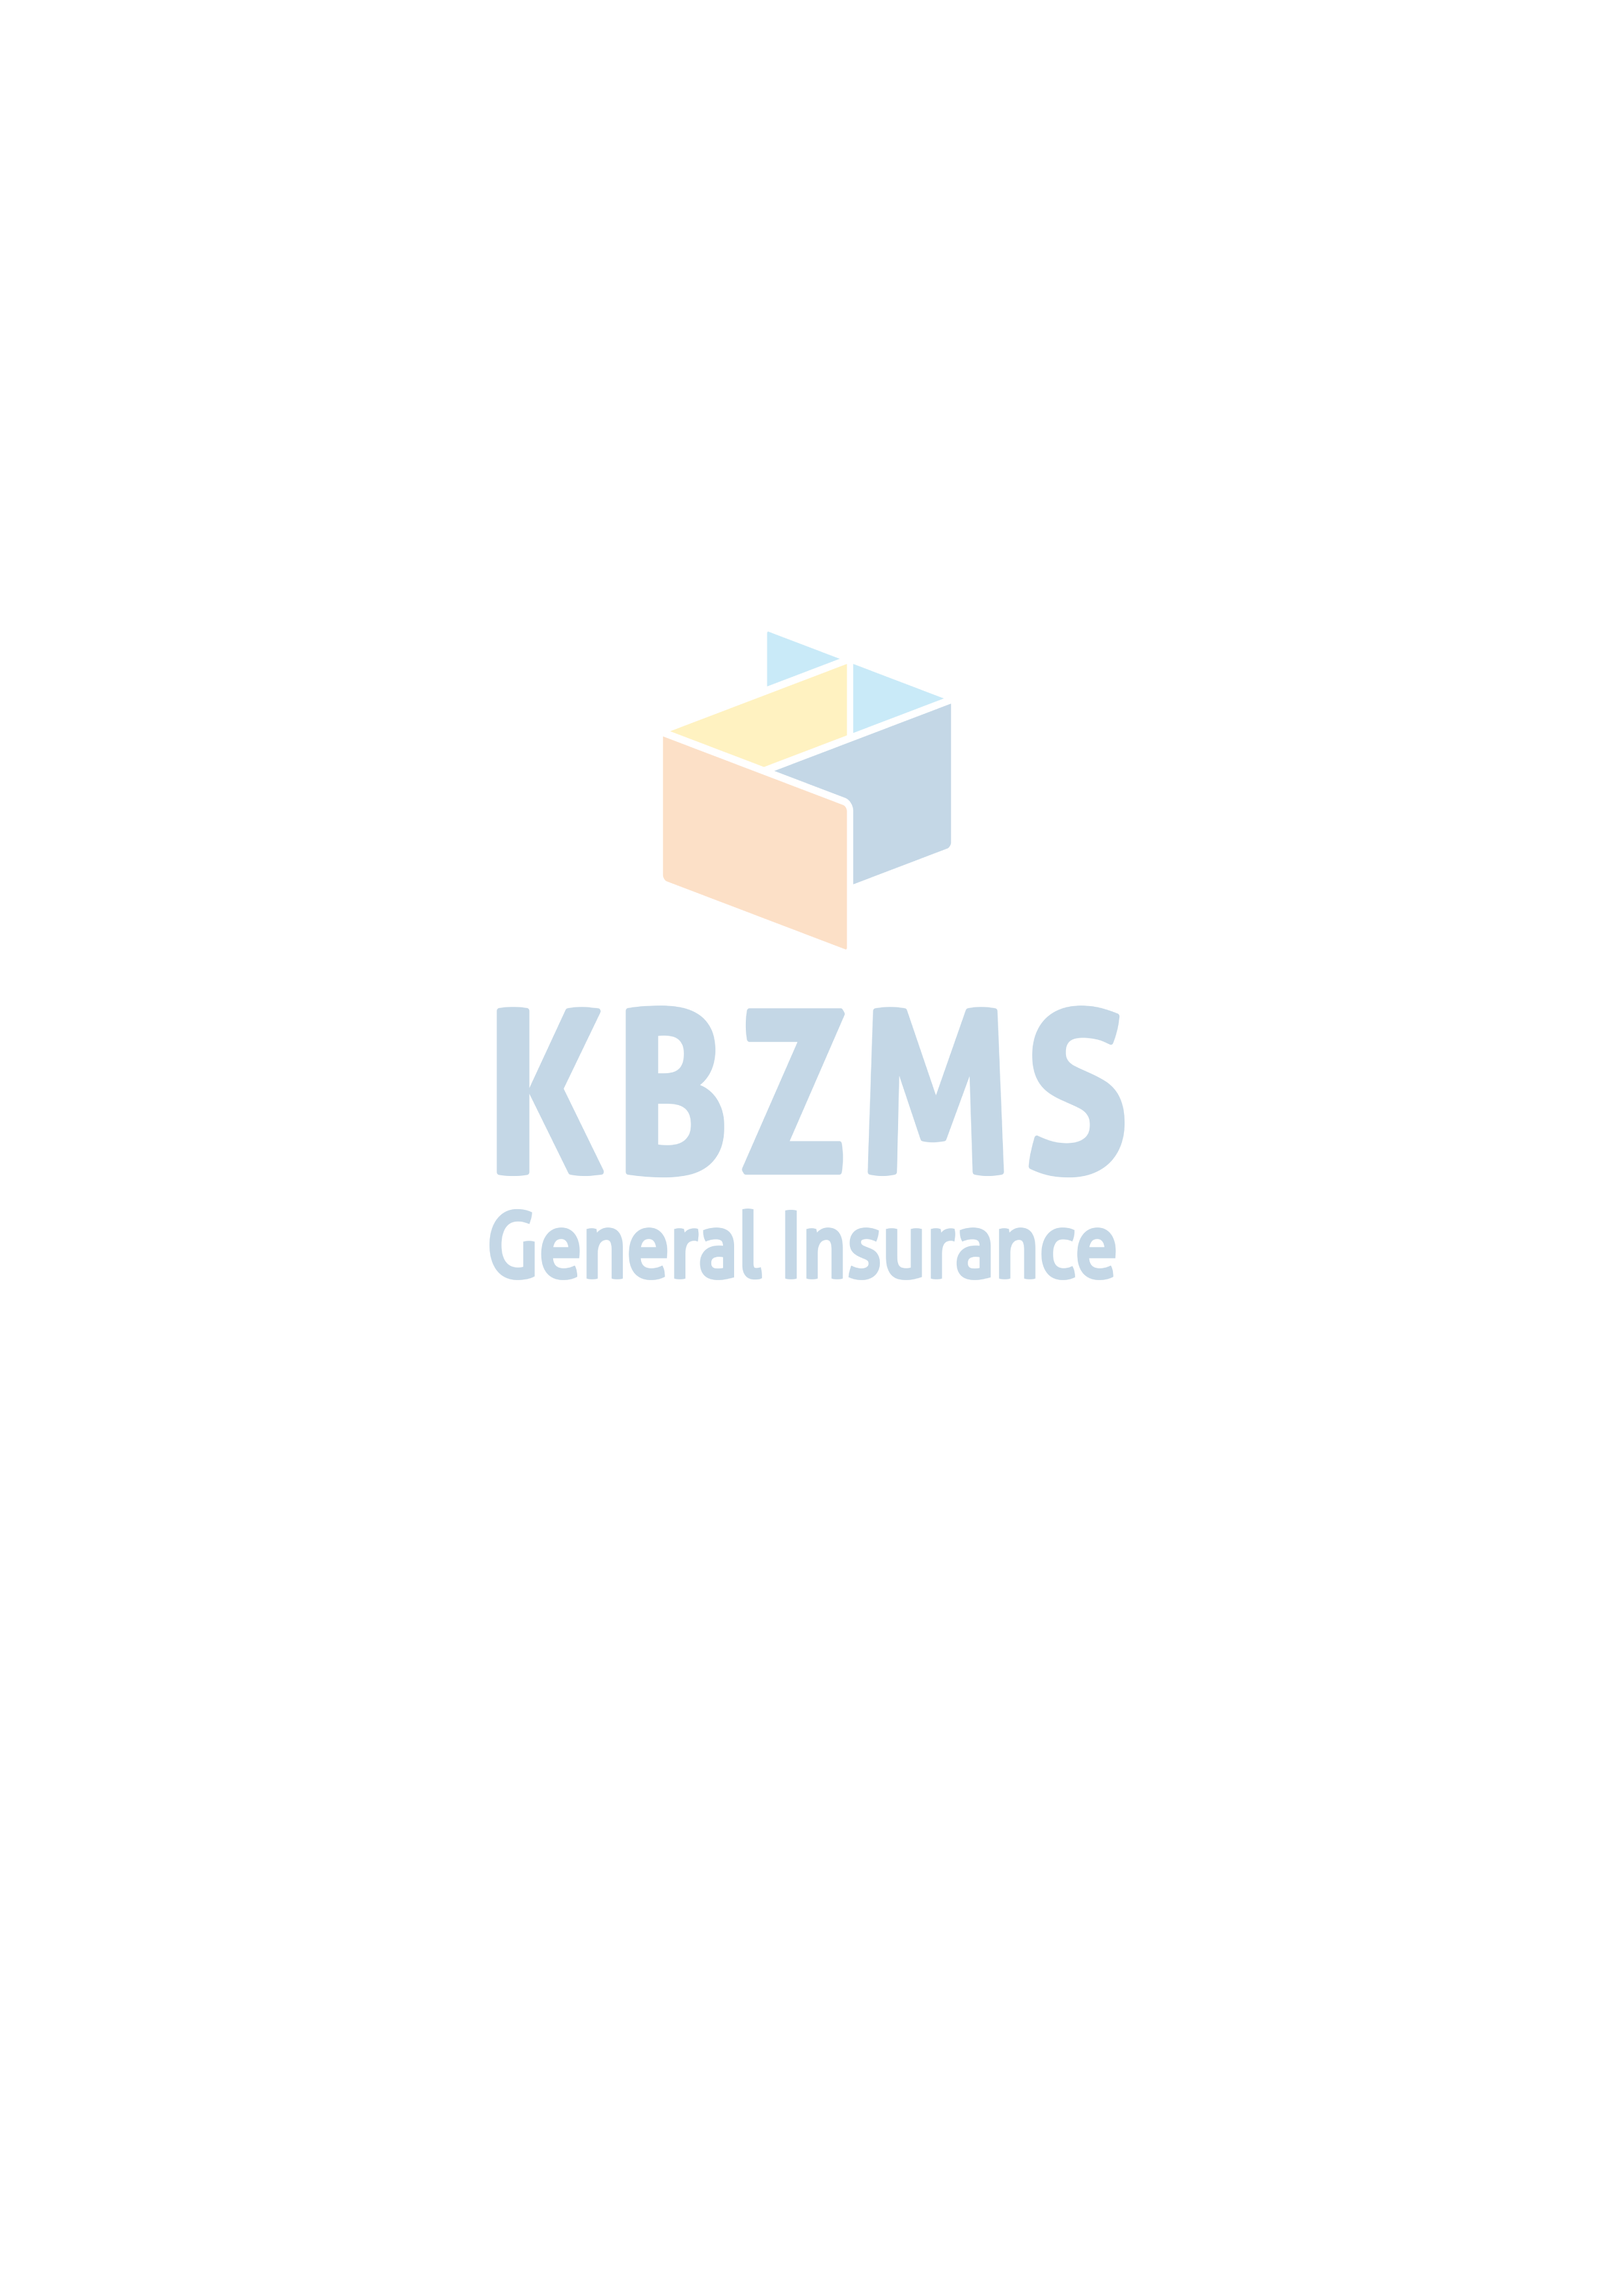
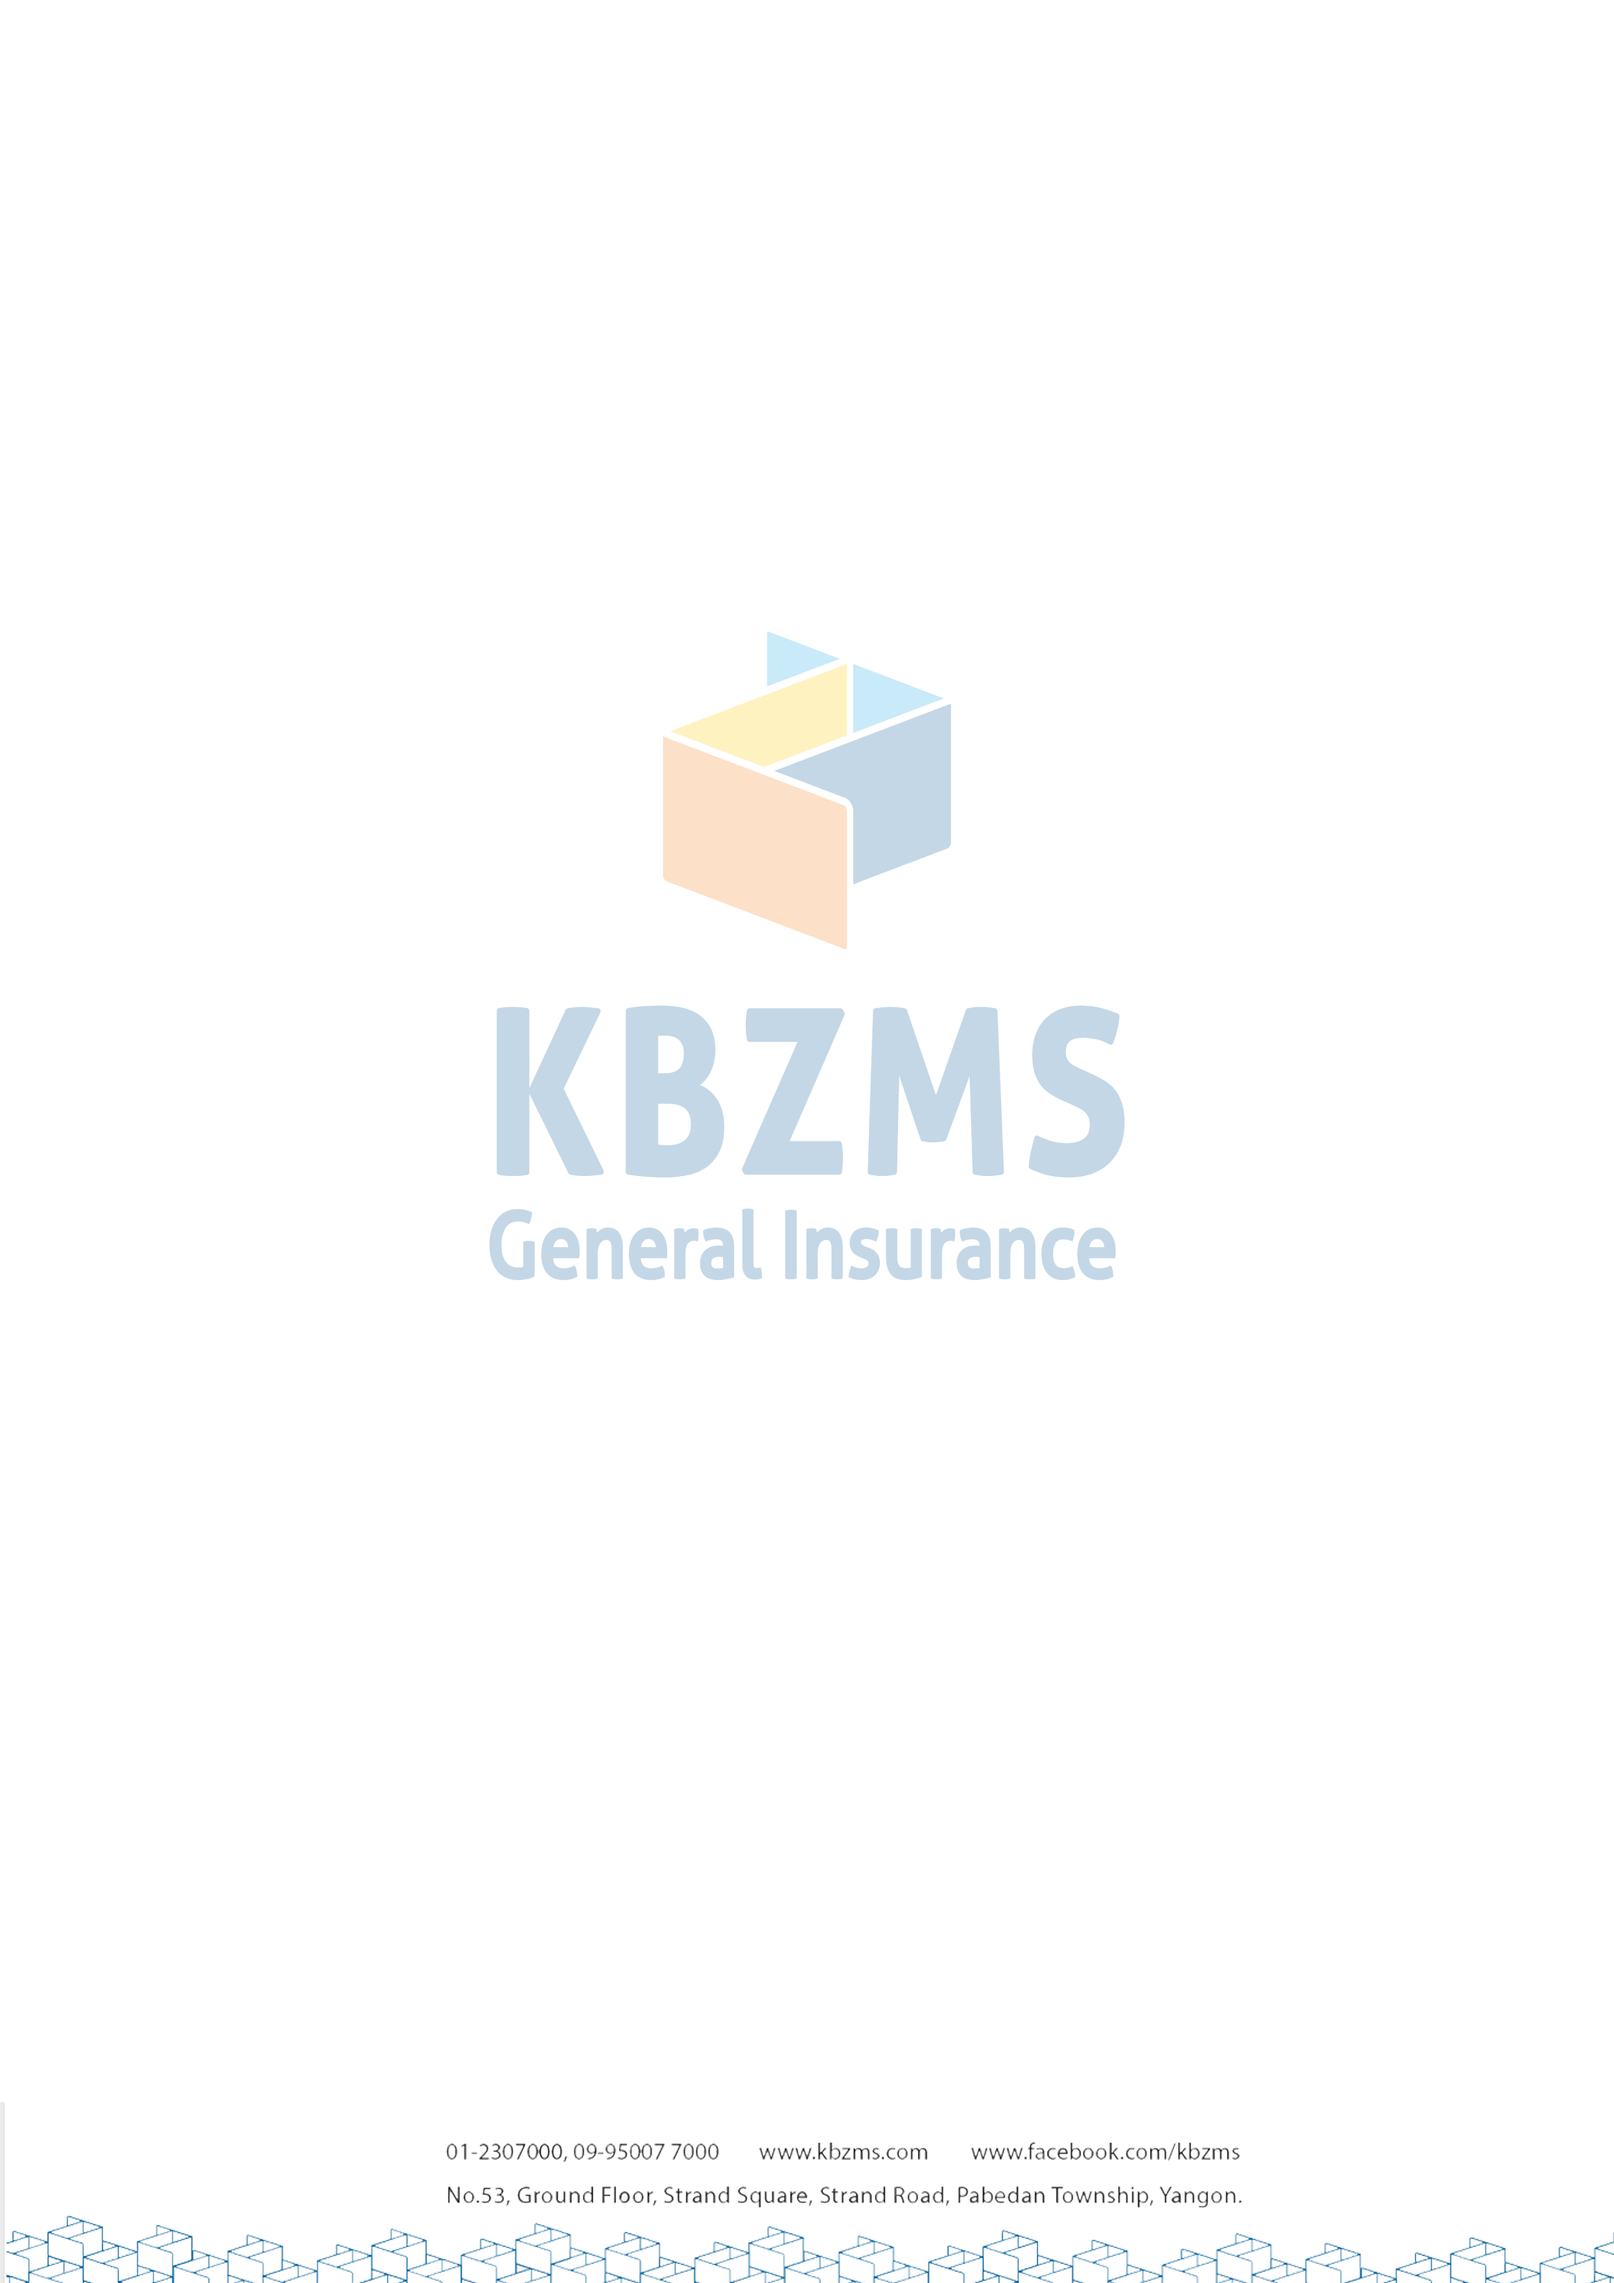
[Fixed]Print

Changed region(s): [[0.0, 0.9322, 1.0, 1.0]]

diff --git a/src/index.html b/src/index.html
@@ -137,15 +137,59 @@
     }
 
     #kt_body {
-       background-color: #ffffff;
-       background-image: url(assets/watermaskbg1.png);
+      background-color: #ffffff;
+      /* background-image: url(assets/watermaskbg1.png);
       background-position: center;
       background-repeat: repeat;
-      background-size: 100% 100%;
+      background-size: 100% 100%; */
       position: static;
       display: block;
       height: unset;
     }
+
+    body::before {
+      content: "";
+
[1 lines of base64/hex data omitted]
+      /* opacity: 0.09; */
[1 lines of base64/hex data omitted]
+      background-position: center;
+      /* background-repeat: repeat; */
+      background-size: 100% 100%;
+      top: 0;
+      left: 0;
+      bottom: 0;
+      right: 0;
+      position: absolute;
+      z-index: 9999;
+      background-position: center;
+      -webkit-print-color-adjust: exact !important;
+    }
+
+    body {
+      -webkit-print-color-adjust: exact !important;
+      position: relative;
+      margin: 0;
+    }
+
+    * {
+      -webkit-print-color-adjust: exact !important;
+      color-adjust: exact !important;
+    }
+/* 
+    .divFooter {
+      position: fixed;
+      background: url(assets/kbz_footer.png);
+      background-position: bottom;
+      background-repeat: no-repeat;
+      background-size: 100% 10%;
+      top: 0;
+      left: 0;
+      bottom: 0;
+      right: 0;
+      z-index: 9999;
+      -webkit-print-color-adjust: exact !important;
+    } */
 
     /* #cover-table{
       

diff --git a/src/app/pages/fna-detail/education/education.component.html b/src/app/pages/fna-detail/education/education.component.html
@@ -82,7 +82,7 @@
                         [class.is-valid]="isControlValid('sumAssured')" formControlName="sumAssured"
                         (ngModelChange)="calculateEducationExpense($event)" [readonly]="!formGroup.value.dateOfBirth">
                 </div>
-                <div class="error-message" *ngIf="isSumAssured">Sum Assured must be between 5000000 and 100000000</div>
+                <div class="error-message" *ngIf="isSumAssured">Sum Assured must be between 5,000,000 and 100,000,000</div>
                 <div class="error-message" *ngIf="isCustomerAge">Customer age must be between 18 and 56 years</div>
             </div>
         </div>
